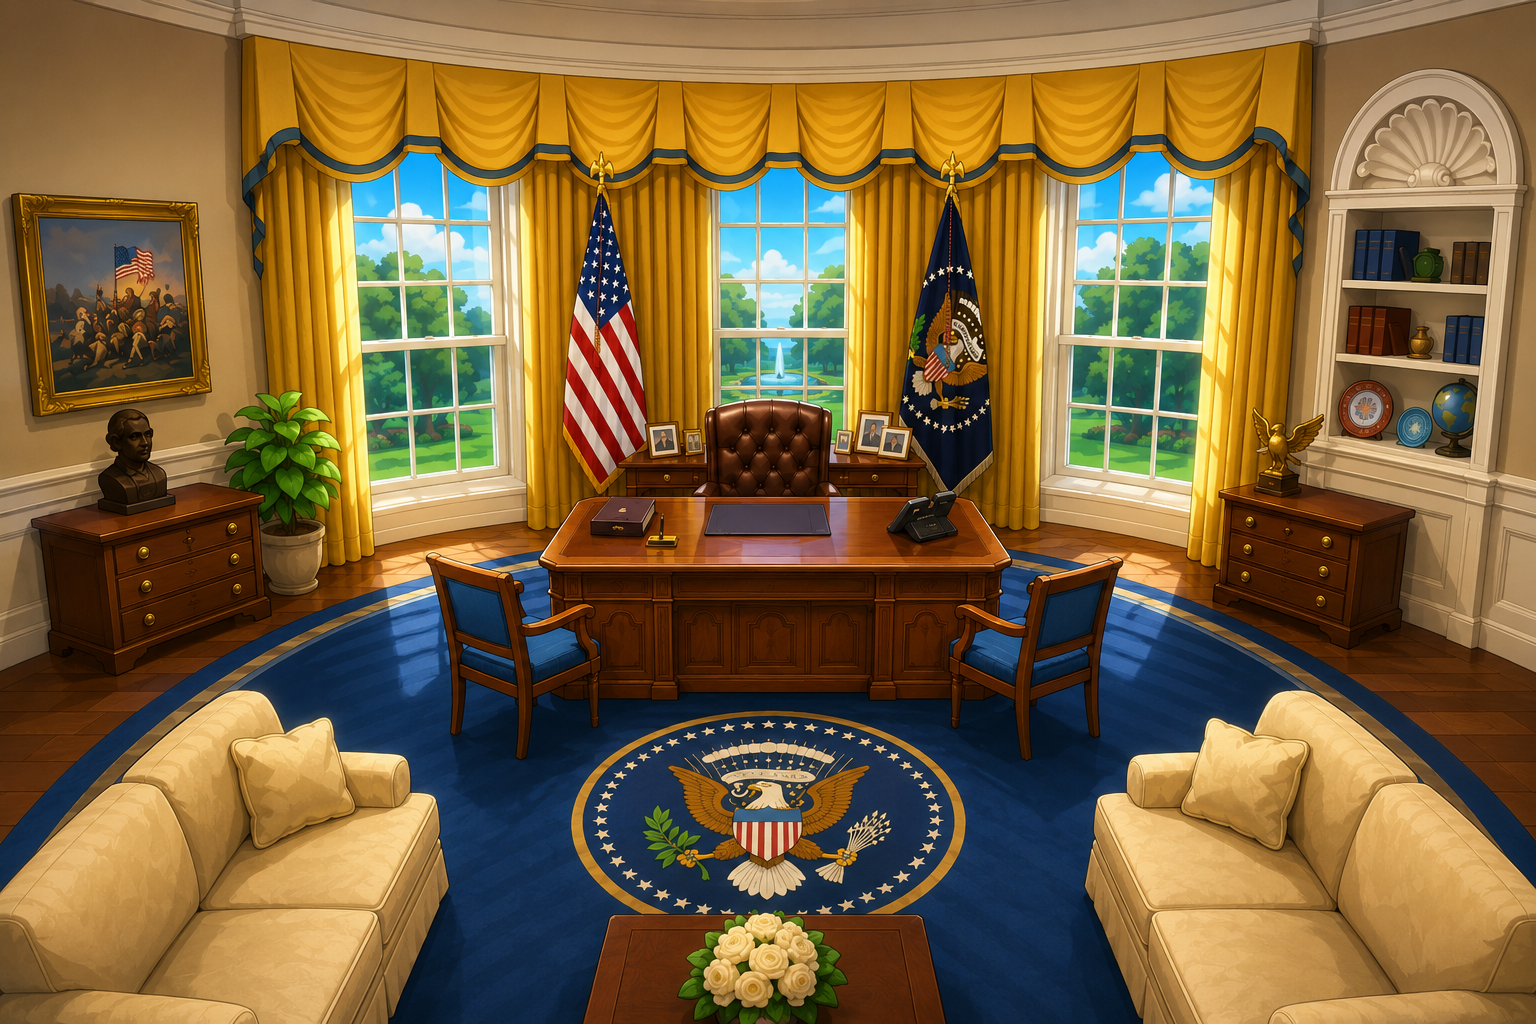
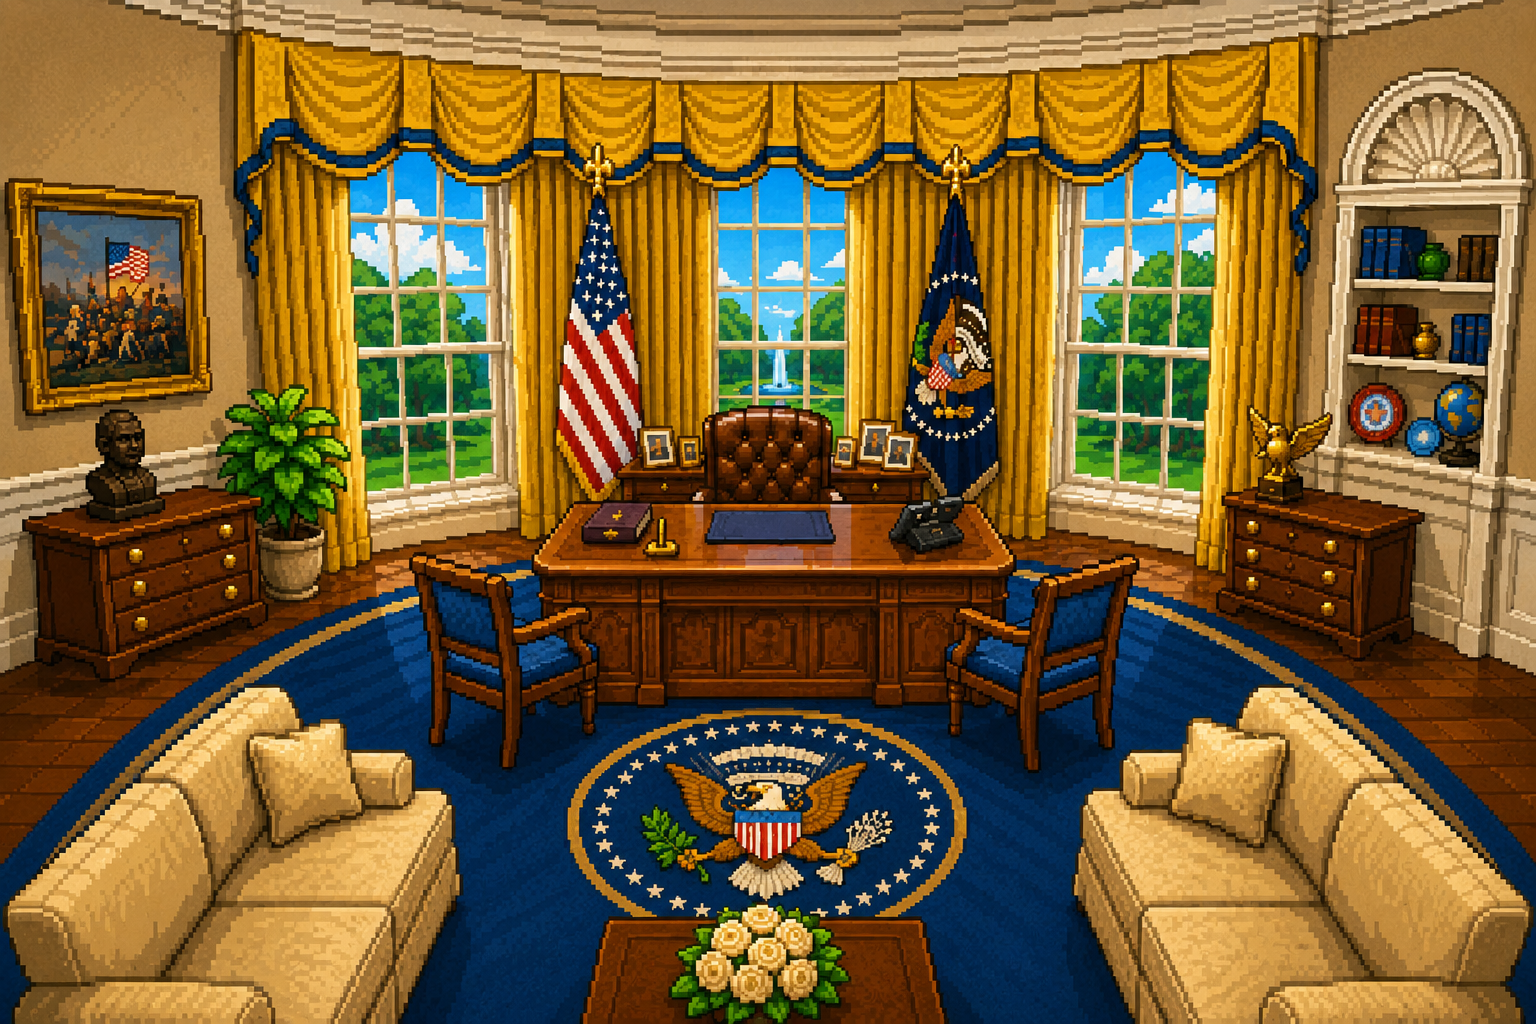
British Legendsを追加

diff --git a/src/data/apps.js b/src/data/apps.js
@@ -59,6 +59,22 @@ export const DEVELOPERS = [
 
 export const APPS = [
   {
+    id: 'app-british-legends',
+    name: 'British Legends（ブリティッシュ・レジェンズ）',
+    tagline: '文学の英雄たちと冒険する、ドット絵RPG。',
+    description: 'British Legends（ブリティッシュ・レジェンズ）は、イギリス文学の名作を舞台にしたドット絵RPGです。\n\nプレイヤーは崩壊した文学世界「Bibliotheca（ビブリオテカ）」を旅し、作品ごとに存在するダンジョンを攻略していきます。\n\nBeowulf、Hamlet、Macbethなど、イギリス文学を代表する主人公たちを仲間にしながら、敵を倒し、素材を集め、キャラクターを進化・強化していきます。\n\nそれぞれの作品世界には独自の敵やボスが存在し、物語を進めることで新たな仲間や時代が解放されます。\n\n学習アプリではなく、まずは純粋なRPGとして楽しめることを重視しています。\n\n遊んでいるうちに自然とイギリス文学の世界観や登場人物に触れられる、新しい文学ファンタジーRPGです。\n\n主な特徴\n・ドラクエ風ターン制バトル\n・素材収集と進化システム\n・作品ごとのダンジョン探索\n・仲間キャラクターの育成\n・ドット絵レトロRPG\n・イギリス文学の世界観を再構築\n・今後も新作品・新キャラクターを追加予定',
+    thumbnail: '/british-legends.png',
+    screenshots: ['/british-legends.png'],
+    category: 'game',
+    tags: ['RPG', 'ドット絵', 'ファンタジー', 'イギリス文学', '文学', 'ターン制', '育成', '探索', 'レトロゲーム', 'シングルプレイ'],
+    developer: { id: 'dev-sfg', name: 'SFG', avatar: '/sfg-logo.jpg' },
+    appUrl: 'https://british-legends.vercel.app',
+    status: 'beta',
+    featured: true,
+    createdAt: '2026-06-18',
+    updatedAt: '2026-06-18',
+  },
+  {
     id: 'app-nation-genesis',
     name: '国家創世記（Nation Genesis）',
     tagline: '一般人から大統領へ。あなたの決断が国家の未来を変える。',
